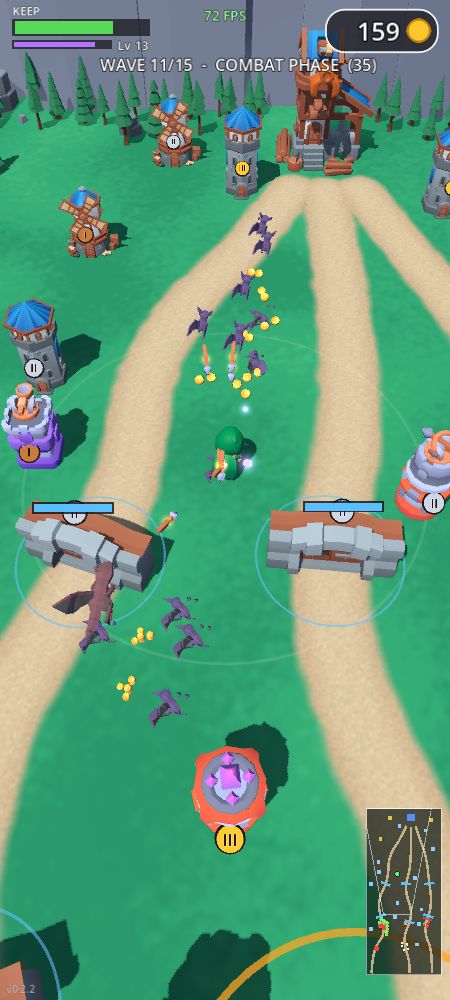
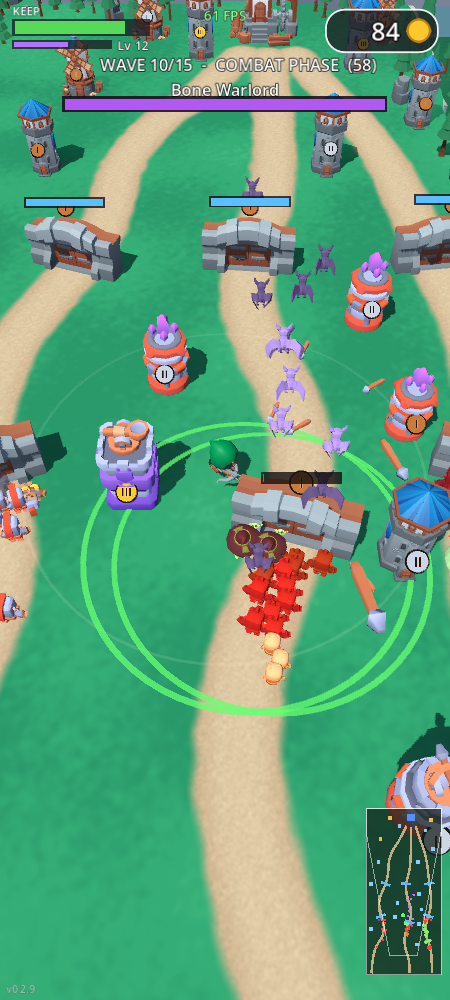
Docs audit for v0.2.9: README screenshots retaken, CLAUDE.md and DESIGN.md updated
- docs/screens: all four retaken (new locked-pad levels, v0.2.5 spec
  models, v0.2.9 label); the args are recorded in CLAUDE.md.
- DESIGN.md: spot unlocks and gate costs as of v0.2.9, roadmap item 0.
- CLAUDE.md: v0.2.9 naming (v0.2.8 was an interim build), Next notes the
  play-test answer and the bone-mage-at-a-wall stall.

diff --git a/CLAUDE.md b/CLAUDE.md
@@ -90,7 +90,7 @@ user and friends, never published. Repo: github.com/tfchen-git-jp/proj_tdks
   Spots unlock with the hero's level (Level.SPOTS `lv`; Sim.unlocked),
   since v0.1.30 by TACTICAL value (user, 2026-10-11): one-lane spots
   and the keep's flanks first (Lv 1: k_west, k_east, x_e1, x_w2 + gold
-  f_1), the crossroads spot x_w4 (all three lanes) last. v0.2.8 (user:
+  f_1), the crossroads spot x_w4 (all three lanes) last. v0.2.9 (user:
   play-tests stalled at wave 10 short of spots, the centre lane had
   none early): centre spots from Lv 2 (gc_t; x_c2 Lv 4, x_c1 Lv 5),
   every tower spot open by Lv 14 (x_w4; was 17; the hero is ~12-13 at
@@ -140,7 +140,7 @@ user and friends, never published. Repo: github.com/tfchen-git-jp/proj_tdks
   after each wave: rate 10/15/20% by level, the best bank's rate counts;
   each bank adds 12/25/45 to the cap),
   Gate (blocks its lane, has HP 154 / 294 / 490, costs 45 / 60 / 90
-  (user, v0.2.4: 70% of the HP at twice the price; v0.2.8: x0.75, was 60 / 80 / 120), repaired after
+  (user, v0.2.4: 70% of the HP at twice the price; v0.2.9: x0.75, was 60 / 80 / 120), repaired after
   each wave). Range rings: on an empty tower spot the first tap on a
   tower previews its reach (blue; a mortar's dead zone red), the second
   builds; a built tower shows its reach and the next level's (gold).
@@ -282,8 +282,12 @@ user and friends, never published. Repo: github.com/tfchen-git-jp/proj_tdks
 
 - The user keeps play-testing (v0.2.4-0.2.7 "feel more challenging"
   after the warlord / Cluster / 4-wide gate / shade changes and the
-  healer, necromancer and gate buffs) and says what is too hard / easy;
-  tune from that, not from the bot.
+  healer, necromancer and gate buffs; v0.2.9 answers "we fail at wave
+  10 for want of tower spots" with earlier spots and cheaper gates) and
+  says what is too hard / easy; tune from that, not from the bot.
+- Watch for: a bone mage healing a crowd at a wall can outheal the hero
+  (who shoots the nearest enemy, not the mage); the standing bot stalls
+  on it for good.
 - Picking-page rows for the provisional names above.
 - Later (user): endless mode + mutators; card evolutions + new relics;
   gate-set synergy; second map (the user designs it); Japanese; QoL
@@ -416,8 +420,13 @@ Game args (after `--`): `--auto --ff=SEC --speed=X (0 = freeze) --seed=N
 --bowrot=X,Y,Z` (main.gd header explains each). `--demo=clips` (raw
 hero clips side by side) is how the carry pitch was picked; render it
 with `--resolution 1500x600`. `--bench` prints [prof] per-section ms and
-[render] counters. README screenshots (docs/screens) were taken with
-`shot` + `--build`, `--offer=cards`, `--lightning`.
+[render] counters. README screenshots (docs/screens, retaken v0.2.9),
+all with `--mute`: build `--shot-delay=7 --hero=0,2
+--build=f_1:bank,k_west:mortar:4,k_east:archer:4,x_e1:frost:4,g_c1:gate:2,g_e1:gate:2`;
+level_up `--shot-delay=7 --offer=cards --perks=blast:1,multi:1
+--build=f_1:bank`; menu plain; battle `--auto --seed=1021 --ff=728
+--speed=0 --shot-delay=8` (frozen until the 7 s "NEW:" card fades).
+Retake them when locked-pad labels or the HUD change.
 
 ## Target device
 
@@ -507,7 +516,7 @@ Windows build, never in WSL.
   to 2 m outside the walkable area and marked (user: enemies "in range"
   at the bottom of the centre lane weren't shot); score = keep % x 10 +
   gold for ties on waves.
-- v0.2.8 (play-tests: losses at wave 10 for want of tower spots):
+- v0.2.9 (v0.2.8 an interim build; play-tests: losses at wave 10 for want of tower spots):
   spots unlock earlier, centre lane from Lv 2; gates cost 45 / 60 / 90.
   Gotcha: the test full run stalls for good on most seeds (a bone mage
   heals a crowd at the unbreakable keep; the bot's hero shoots the

diff --git a/docs/DESIGN.md b/docs/DESIGN.md
@@ -36,14 +36,17 @@ keeps the decisions, the original analysis and what is left to build.
   towers: no building HP, no hero death.
 - **Spots unlock with the hero's level, by tactical value** (user,
   v0.1.30): one-lane spots and the keep's flanks first (4 tower + 1 gold
-  at level 1), spots reaching two lanes from level 6, the crossroads spot
-  (all three lanes) last at level 17; 5 gold plots (1, 4, 7, 12, 15).
+  at level 1), the crossroads spot (all three lanes) last; 5 gold plots
+  (1, 4, 7, 12, 15). v0.2.9 (user: play-tests failed at wave 10 short of
+  spots): the centre lane gets a spot from level 2, every tower spot is
+  open by level 14 (was 17).
   Gates come in two sets of three (one per lane), the inner set at
   level 3, the outer one nearer the lane mouths at level 9. Idea for
   later: synergy when a whole gate set stands.
 - **Walls take up to 4 attackers at once**, side by side (a giant counts
   as two; user, v0.2.2: one or two in a line was too easy on gates).
-  Gates have 70% of their old HP at twice the cost (user, v0.2.4).
+  Gates have 70% of their old HP at twice the cost (user, v0.2.4); then
+  25% cheaper, 45 / 60 / 90 (user, v0.2.9).
 - **Level-IV specs look different** (v0.2.5, lineup approved by the user):
   parts and colours from the same CC0 kits; the Harpoon Ballista shoots
   tridents.
@@ -197,7 +200,8 @@ gold left over at the end is only the plan running out.
 ## Roadmap (agreed 2026-10-10; batch 1 done in v0.1.18)
 
 0. NOW: the user play-tests (v0.2.7: "more challenging" after the
-   v0.2.2-0.2.4 enemy buffs); tune from that.
+   v0.2.2-0.2.4 enemy buffs; v0.2.9: earlier spots, cheaper gates after
+   losses at wave 10 for want of tower spots); tune from that.
 1. DONE: armour, flyers (bats), ranged siege (crossbowmen), wave-10 boss;
    v0.1.28 slimes, bone mages, captains; v0.2.1 warded, shades, sappers,
    drakes, necromancers.
